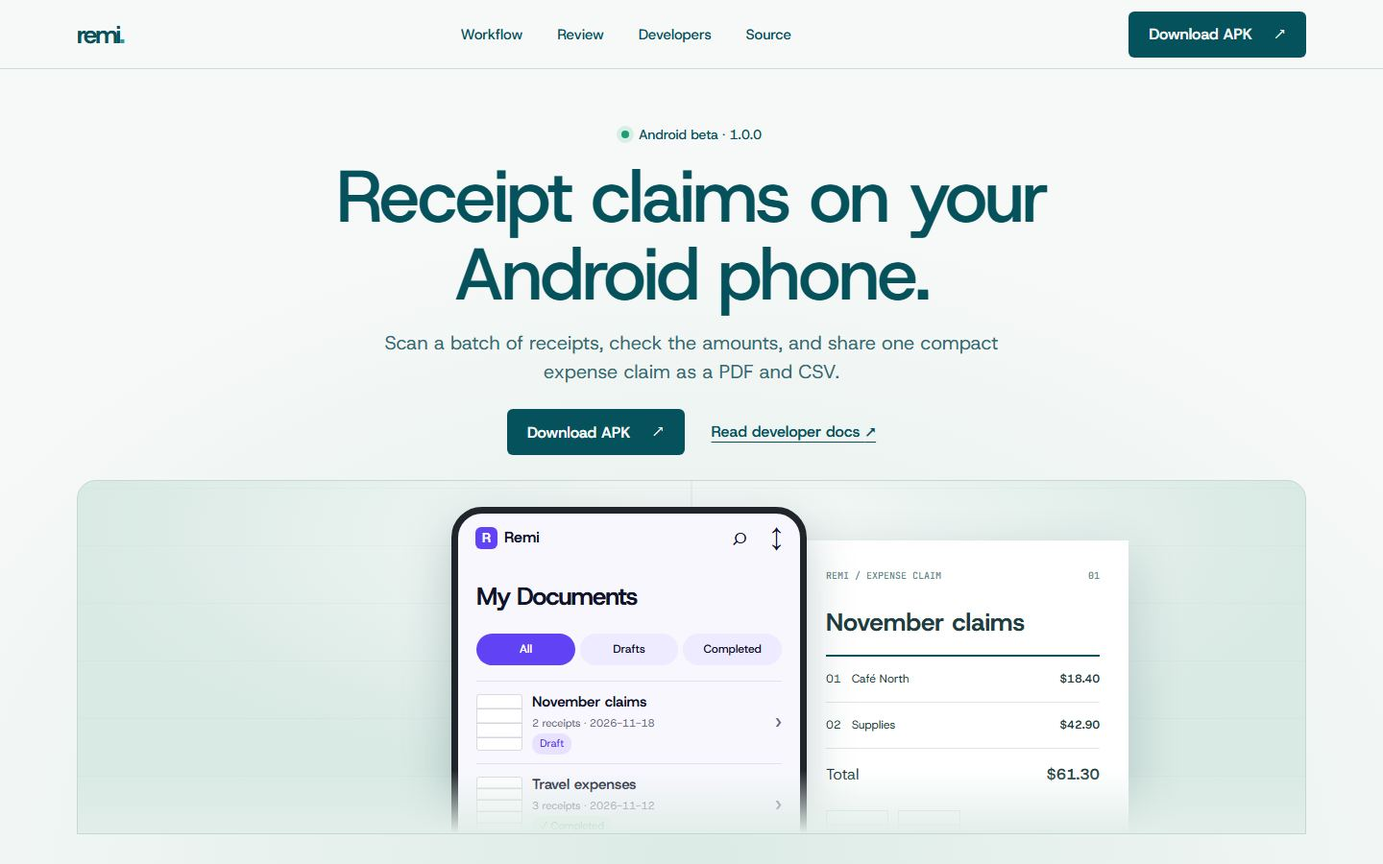
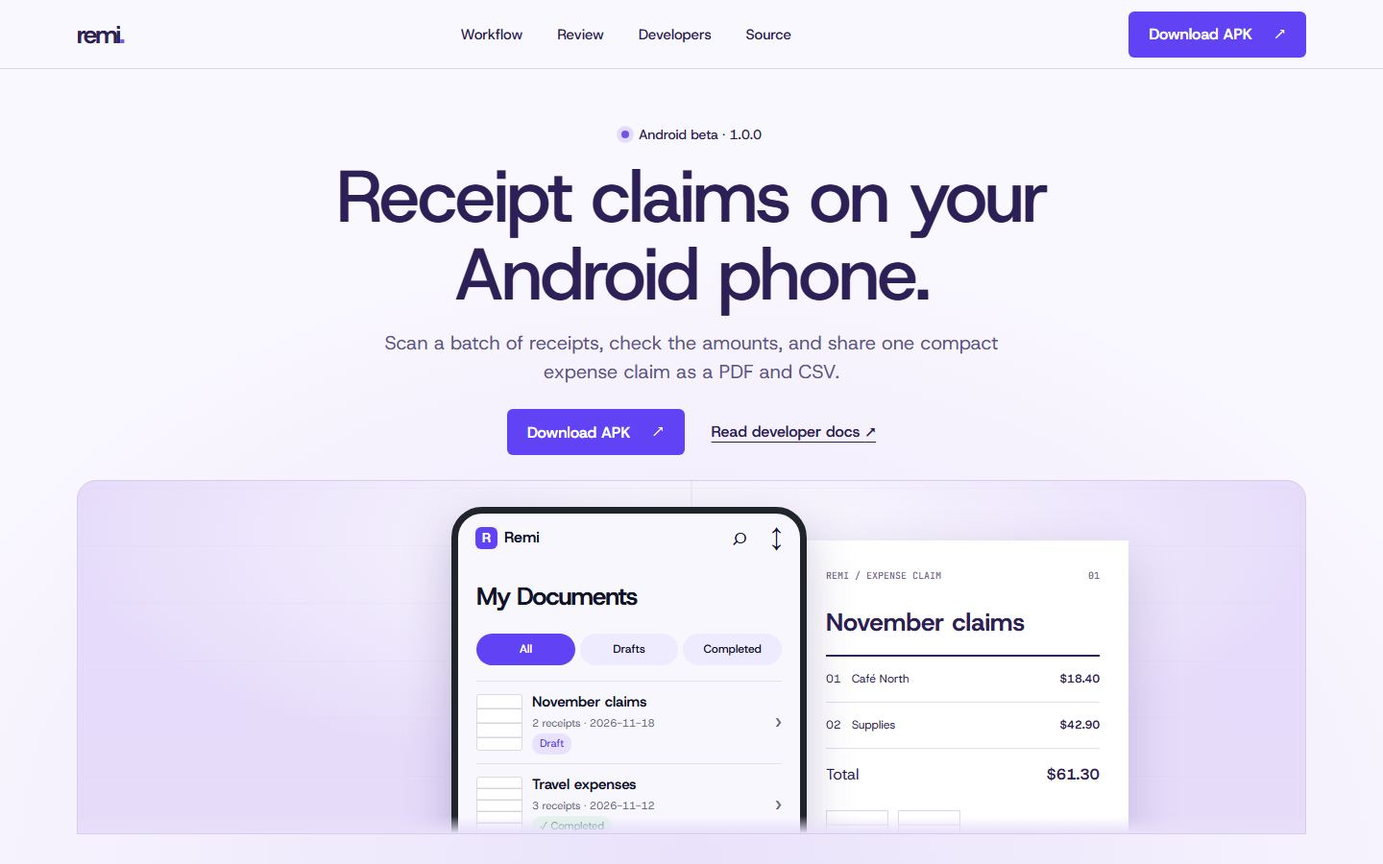
fix(web): restore purple theme and responsive sections

diff --git a/apps/web/styles.css b/apps/web/styles.css
@@ -1,25 +1,25 @@
 :root {
   color-scheme: light;
-  --p-bg: #f7f9f8;
-  --p-surface: #ebf0ee;
-  --p-ink: #06525c;
-  --p-muted: #2f737d;
-  --p-accent: #06525c;
-  --p-action: #06525c;
-  --p-action-ink: #f7f9f8;
-  --p-inv-bg: #06525c;
-  --p-inv-ink: #f7f9f8;
-  --p-inv-muted: #c1d0d2;
+  --p-bg: #faf8ff;
+  --p-surface: #f0ebfa;
+  --p-ink: #2d2056;
+  --p-muted: #62558a;
+  --p-accent: #6142f5;
+  --p-action: #6142f5;
+  --p-action-ink: #fff;
+  --p-inv-bg: #2d2056;
+  --p-inv-ink: #faf8ff;
+  --p-inv-muted: #d9d0f2;
   --bg: #fff;
-  --ink: #06525c;
-  --accent: #08707a;
+  --ink: #2d2056;
+  --accent: #6d4ddb;
   --t-h2: clamp(34px, 5vw, 70px);
   --display-weight: 500;
   --display-tracking: -.04em;
   --font-display: "Host Grotesk", system-ui, sans-serif;
   --font-text: "Host Grotesk", system-ui, sans-serif;
   --font-mono: "JetBrains Mono", ui-monospace, Consolas, monospace;
-  --line: #cddbd8;
+  --line: #dcd5ee;
   --violet: #6142f5;
 }
 * { box-sizing: border-box; }
@@ -27,7 +27,7 @@ html { scroll-behavior: auto; }
 body { margin: 0; background: var(--p-bg); color: var(--p-ink); font: 400 16px/1.6 var(--font-text); }
 a { color: inherit; text-decoration: none; }
 button, a { -webkit-tap-highlight-color: transparent; }
-a:focus-visible { outline: 3px solid #06525c; outline-offset: 4px; border-radius: 4px; }
+a:focus-visible { outline: 3px solid #2d2056; outline-offset: 4px; border-radius: 4px; }
 .wrap { width: min(calc(100% - 160px), 1280px); margin-inline: auto; }
 .skip-link { position: absolute; top: -100px; left: 0; padding: 10px 16px; background: var(--p-ink); color: #fff; z-index: 20; }
 .skip-link:focus { top: 10px; }
@@ -38,32 +38,32 @@ h3 { font-size: 25px; }
 .site-header { position: fixed; z-index: 10; inset: 0 0 auto; height: 72px; background: var(--p-bg); border-bottom: 1px solid var(--line); }
 .header-inner { height: 100%; display: flex; align-items: center; justify-content: space-between; gap: 32px; position: relative; }
 .brand { font: 700 26px/1 var(--font-display); letter-spacing: -.075em; white-space: nowrap; }
-.brand span { color: #2c9995; }
+.brand span { color: #7758ef; }
 .header-nav { display: flex; align-items: center; gap: clamp(18px, 2.5vw, 38px); font-size: 15px; font-weight: 500; }
 .header-nav a, .site-footer nav a { transition: color .18s; }
-.header-nav a:hover, .site-footer nav a:hover { color: #258c8a; }
+.header-nav a:hover, .site-footer nav a:hover { color: #6d4ddb; }
 .header-nav a[aria-current] { text-decoration: underline; text-underline-offset: 8px; text-decoration-thickness: 2px; }
 .header-cta, .button { display: inline-flex; align-items: center; justify-content: center; gap: 22px; min-height: 48px; padding: 11px 21px; border-radius: 6px; font-size: 16px; font-weight: 600; line-height: 1.2; white-space: nowrap; transition: transform .18s, background .18s; }
 .header-cta, .button-primary { background: var(--p-action); color: var(--p-action-ink); }
-.header-cta:hover, .button-primary:hover { background: #08707a; transform: translateY(-2px); }
+.header-cta:hover, .button-primary:hover { background: #6d4ddb; transform: translateY(-2px); }
 .header-cta:active, .button:active { transform: translateY(0); }
 .header-cta span, .button span { font-size: 18px; font-weight: 400; }
 main { padding-top: 0; }
-.hero { height: 100svh; overflow: hidden; background: radial-gradient(80% 95% at 50% 100%, #dcebe6, transparent 80%), var(--p-bg); }
+.hero { min-height: 100svh; padding-bottom: 24px; overflow: hidden; background: radial-gradient(80% 95% at 50% 100%, #e9e2fa, transparent 80%), var(--p-bg); }
 .hero-inner { padding-top: clamp(116px, 6vh + 72px, 140px); text-align: center; }
 .hero-text { width: 100%; margin-inline: auto; text-align: left; }
 .hero-copy { text-align: center; }
 .hero-status { display: inline-flex; align-items: center; gap: 10px; margin: 0 0 14px; font-size: 14px; font-weight: 500; }
-.status-light { width: 8px; height: 8px; border-radius: 50%; background: #1d9d76; box-shadow: 0 0 0 5px #d7eee3; }
+.status-light { width: 8px; height: 8px; border-radius: 50%; background: #7454e8; box-shadow: 0 0 0 5px #e4dcff; }
 .hero h1 { max-width: 850px; margin: 0 auto 16px; font-size: clamp(49px, 5.3vw, 78px); }
-.hero-lead { max-width: 670px; margin: 0 auto; font-size: 20px; line-height: 1.48; color: #346c73; }
+.hero-lead { max-width: 670px; margin: 0 auto; font-size: 20px; line-height: 1.48; color: #62558a; }
 .hero-actions { display: flex; justify-content: center; align-items: center; gap: 28px; margin-top: 24px; }
 .text-action, .inline-link, .release-link { font-weight: 600; text-decoration: underline; text-underline-offset: 5px; }
-.text-action:hover, .inline-link:hover, .release-link:hover { color: #1e8d8f; }
-.hero-stage { height: clamp(300px, 41vh, 390px); position: relative; isolation: isolate; margin-top: 26px; overflow: hidden; border: 1px solid #c4d7d2; border-radius: 20px 20px 0 0; background: radial-gradient(60% 80% at 50% 15%, #f7faf9, #d9e9e4 85%); }
-.hero-stage::after { content: ""; position: absolute; z-index: 5; inset: 82% 0 0; background: linear-gradient(transparent, #e2eee9); pointer-events: none; }
-.stage-lines { position: absolute; inset: 0; opacity: .28; background: linear-gradient(90deg, transparent 49.9%, #a9c8c1 50%, transparent 50.1%), repeating-linear-gradient(0deg, transparent 0 59px, #bad2cc 60px); }
-.phone-screen { position: absolute; z-index: 2; width: 370px; height: 570px; left: calc(50% - 250px); top: 27px; background: #f8f7fe; color: #111329; border: 7px solid #20252b; border-radius: 32px; overflow: hidden; text-align: left; box-shadow: 0 18px 50px #17414840; }
+.text-action:hover, .inline-link:hover, .release-link:hover { color: #6d4ddb; }
+.hero-stage { height: clamp(300px, 41vh, 390px); position: relative; isolation: isolate; margin-top: 26px; overflow: hidden; border: 1px solid #d6ccec; border-radius: 20px 20px 0 0; background: radial-gradient(60% 80% at 50% 15%, #fcfbff, #e6dcfa 85%); }
+.hero-stage::after { content: ""; position: absolute; z-index: 5; inset: 95% 0 0; background: linear-gradient(transparent, #e8e0fa); pointer-events: none; }
+.stage-lines { position: absolute; inset: 0; opacity: .28; background: linear-gradient(90deg, transparent 49.9%, #c9baf0 50%, transparent 50.1%), repeating-linear-gradient(0deg, transparent 0 59px, #d7ccf0 60px); }
+.phone-screen { position: absolute; z-index: 2; width: 370px; height: 570px; left: calc(50% - 250px); top: 27px; background: #f8f7fe; color: #111329; border: 7px solid #20252b; border-radius: 32px; overflow: hidden; text-align: left; box-shadow: 0 18px 50px #39236c40; }
 .phone-top { height: 50px; display: flex; align-items: center; gap: 7px; padding: 0 18px; font-size: 16px; }
 .app-icon { width: 23px; height: 23px; display: inline-grid; place-items: center; border-radius: 6px; background: var(--violet); color: #fff; font: 800 14px/1 var(--font-text); }
 .phone-tools { margin-left: auto; font-size: 26px; }
@@ -86,18 +86,18 @@ main { padding-top: 0; }
 .phone-nav span { display: grid; justify-items: center; line-height: 1; }
 .phone-nav small { font-size: 9px; margin-top: 4px; }
 .phone-nav span:first-child { color: #4928df; }
-.output-sheet { position: absolute; z-index: 1; top: 62px; left: calc(50% + 110px); width: 345px; height: 460px; padding: 30px; background: #fff; color: #203d41; text-align: left; box-shadow: 0 20px 50px #17414830; }
-.output-head { display: flex; justify-content: space-between; color: #5a8b8c; font: 500 10px var(--font-mono); }
+.output-sheet { position: absolute; z-index: 1; top: 62px; left: calc(50% + 110px); width: 345px; height: 460px; padding: 30px; background: #fff; color: #2d2056; text-align: left; box-shadow: 0 20px 50px #39236c30; }
+.output-head { display: flex; justify-content: space-between; color: #756791; font: 500 10px var(--font-mono); }
 .output-title { margin: 22px 0 12px; font-size: 26px; font-weight: 700; }
 .output-rule { height: 2px; background: var(--p-ink); }
-.output-row, .output-total { display: flex; justify-content: space-between; padding: 14px 0; border-bottom: 1px solid #dce8e5; font-size: 12px; }
+.output-row, .output-total { display: flex; justify-content: space-between; padding: 14px 0; border-bottom: 1px solid #e2dbf2; font-size: 12px; }
 .output-total { font-size: 16px; border-bottom: none; }
 .output-slips { display: flex; gap: 10px; margin-top: 10px; }
-.output-slips span { width: 65px; height: 95px; border: 1px solid #d5dfdd; background: repeating-linear-gradient(#fff 0 13px, #e2e9e7 14px 15px); }
+.output-slips span { width: 65px; height: 95px; border: 1px solid #ded6ed; background: repeating-linear-gradient(#fff 0 13px, #e8e2f1 14px 15px); }
 .m-enter:not(.m-enter-done) .hero-status, .m-enter:not(.m-enter-done) .hero h1, .m-enter:not(.m-enter-done) .hero-lead, .m-enter:not(.m-enter-done) .hero-actions { opacity: 0; transform: translateY(12px); }
 .hero-status, .hero h1, .hero-lead, .hero-actions { transition: opacity .55s ease, transform .55s ease; }
 .hero h1 { transition-delay: .07s; }.hero-lead { transition-delay: .13s; }.hero-actions { transition-delay: .2s; }
-.section { height: 100svh; padding: 90px 0 55px; scroll-margin-top: 72px; }
+.section { min-height: 100svh; padding: 90px 0 55px; scroll-margin-top: 72px; }
 .kicker { margin: 0 0 20px; font-size: 14px; font-weight: 600; }
 .section-heading { max-width: 760px; }
 .section-heading h2 { margin: 0 0 18px; }
@@ -106,27 +106,27 @@ main { padding-top: 0; }
 .workflow-grid { display: grid; grid-template-columns: repeat(3, minmax(0, 1fr)); gap: 24px; margin-top: 58px; }
 .workflow-step { min-width: 0; padding-top: 18px; border-top: 1px solid var(--line); }
 .step-index { font: 500 13px var(--font-mono); }
-.step-visual { position: relative; display: flex; align-items: center; justify-content: center; height: 225px; overflow: hidden; margin: 18px 0 25px; border-radius: 14px; background: #eaf2ef; }
+.step-visual { position: relative; display: flex; align-items: center; justify-content: center; height: 225px; overflow: hidden; margin: 18px 0 25px; border-radius: 14px; background: #eee8fb; }
 .workflow-step h3 { margin-bottom: 10px; }
 .workflow-step p { max-width: 320px; }
-.scan-visual { background: #dcebe6; }
-.scan-page { position: relative; width: 112px; height: 191px; padding: 20px 15px; background: #fff; box-shadow: 0 12px 26px #2c64663d; display: flex; flex-direction: column; gap: 13px; font: 500 11px var(--font-mono); }
-.scan-page i, .receipt-paper i { display: block; height: 3px; background: #d4dcda; }
+.scan-visual { background: #e9e2fa; }
+.scan-page { position: relative; width: 112px; height: 191px; padding: 20px 15px; background: #fff; box-shadow: 0 12px 26px #4430733d; display: flex; flex-direction: column; gap: 13px; font: 500 11px var(--font-mono); }
+.scan-page i, .receipt-paper i { display: block; height: 3px; background: #ddd8e8; }
 .scan-page strong { margin-top: auto; font-size: 16px; }
 .scan-corners { position: absolute; inset: 17px calc(50% - 83px); }
-.scan-corners i { position: absolute; width: 18px; height: 18px; border: 3px solid #238f88; }
+.scan-corners i { position: absolute; width: 18px; height: 18px; border: 3px solid #7454e8; }
 .scan-corners i:nth-child(1) { top: 0; left: 0; border-right: 0; border-bottom: 0; }.scan-corners i:nth-child(2) { top: 0; right: 0; border-left: 0; border-bottom: 0; }.scan-corners i:nth-child(3) { bottom: 0; left: 0; border-right: 0; border-top: 0; }.scan-corners i:nth-child(4) { bottom: 0; right: 0; border-left: 0; border-top: 0; }
 .review-visual { flex-direction: column; padding: 25px; align-items: stretch; background: #f5f3fc; }
 .mini-field { display: flex; justify-content: space-between; padding: 14px 10px; border-bottom: 1px solid #e3e1ee; color: #666782; font-size: 13px; }
 .mini-field strong { color: #111329; }
 .mini-confirm { align-self: flex-end; margin-top: 16px; padding: 9px 12px; border-radius: 7px; background: var(--violet); color: #fff; font-size: 12px; font-weight: 600; }
 .export-visual { gap: 16px; }
-.mini-pdf, .mini-csv { width: 90px; height: 120px; padding: 15px 10px; border-radius: 6px; background: #fff; box-shadow: 0 8px 20px #19505c20; font: 700 22px var(--font-display); }
+.mini-pdf, .mini-csv { width: 90px; height: 120px; padding: 15px 10px; border-radius: 6px; background: #fff; box-shadow: 0 8px 20px #44307320; font: 700 22px var(--font-display); }
 .mini-pdf span, .mini-csv span { display: block; margin-top: 25px; font: 400 9px var(--font-mono); }
-.mini-csv { width: auto; height: auto; align-self: center; padding: 0; background: transparent; box-shadow: none; color: #06525c; font-size: 20px; }
+.mini-csv { width: auto; height: auto; align-self: center; padding: 0; background: transparent; box-shadow: none; color: #2d2056; font-size: 20px; }
 .mini-csv span { margin-top: 8px; }
 .export-arrow { position: absolute; right: 25px; bottom: 15px; font-size: 24px; }
-.review-section { background: #07525c; color: #fff; }
+.review-section { background: var(--p-inv-bg); color: #fff; }
 .review-layout, .export-layout { min-height: calc(100svh - 145px); display: grid; grid-template-columns: repeat(12, minmax(0, 1fr)); align-items: start; gap: 24px; padding-top: 115px; }
 .review-copy, .export-copy { grid-column: 1 / span 6; }
 .review-window, .export-art { grid-column: 7 / span 6; }
@@ -135,7 +135,7 @@ main { padding-top: 0; }
 .review-copy > p:nth-of-type(2), .export-copy > p:nth-of-type(2) { font-size: 19px; line-height: 1.55; }
 .review-copy > p:nth-of-type(2) { color: #fff; }
 .inline-link { display: inline-block; margin-top: 20px; }
-.review-window { overflow: hidden; border-radius: 18px; background: #f8f7fe; color: #111329; box-shadow: 0 24px 60px #00303955; }
+.review-window { overflow: hidden; border-radius: 18px; background: #f8f7fe; color: #111329; box-shadow: 0 24px 60px #1e0f4655; }
 .review-window-head { display: flex; align-items: center; gap: 10px; height: 64px; padding: 0 24px; background: #fff; border-bottom: 1px solid #e3e1ee; font-size: 17px; }
 .review-window-head > span:last-child { margin-left: auto; color: #666782; font-size: 13px; }
 .review-window-body { display: grid; grid-template-columns: .8fr 1.2fr; min-height: 470px; }
@@ -153,50 +153,50 @@ main { padding-top: 0; }
 .export-copy { min-width: 0; }
 .export-copy > p:nth-of-type(2) { color: var(--p-ink); }
 .export-art { position: relative; min-height: 490px; }
-.pdf-page { position: absolute; width: 290px; height: 410px; padding: 28px; background: #fff; box-shadow: 0 22px 42px #0b474331; }
+.pdf-page { position: absolute; width: 290px; height: 410px; padding: 28px; background: #fff; box-shadow: 0 22px 42px #38226631; }
 .pdf-cover { left: 9%; top: 0; z-index: 2; }
-.pdf-page > span { font: 500 10px var(--font-mono); color: #4e7f80; }
+.pdf-page > span { font: 500 10px var(--font-mono); color: #756791; }
 .pdf-title { margin: 23px 0 15px; font-size: 26px; font-weight: 700; letter-spacing: -.04em; }
-.pdf-line, .pdf-total { display: flex; justify-content: space-between; padding: 11px 0; border-bottom: 1px solid #d5e1df; font-size: 12px; }
+.pdf-line, .pdf-total { display: flex; justify-content: space-between; padding: 11px 0; border-bottom: 1px solid #e0d9ed; font-size: 12px; }
 .pdf-total { font-size: 15px; border: 0; }
 .pdf-receipts { top: 35px; left: 39%; display: flex; gap: 15px; align-items: start; padding-top: 70px; }
-.pdf-receipt { width: 90px; height: 230px; border: 1px solid #dae3e0; background: repeating-linear-gradient(#fff 0 13px, #e3e9e7 14px 15px); }
+.pdf-receipt { width: 90px; height: 230px; border: 1px solid #e0d9ed; background: repeating-linear-gradient(#fff 0 13px, #e7e1f0 14px 15px); }
 .pdf-receipt.short { height: 180px; }
-.csv-card { position: absolute; z-index: 3; right: 0; bottom: 22px; width: 260px; padding: 19px; background: #07525c; color: #fff; box-shadow: 0 16px 30px #0b474331; font: 500 13px var(--font-mono); }
-.csv-card span { display: block; margin-bottom: 13px; color: #addbd3; }
+.csv-card { position: absolute; z-index: 3; right: 0; bottom: 22px; width: 260px; padding: 19px; background: #322064; color: #fff; box-shadow: 0 16px 30px #38226631; font: 500 13px var(--font-mono); }
+.csv-card span { display: block; margin-bottom: 13px; color: #ded3ff; }
 .csv-card code { font: 400 11px/1.8 var(--font-mono); }
 .statement-section { display: flex; align-items: flex-start; padding-top: 150px; background: #fff; }
 .statement-section h2 { margin-bottom: 35px; font-size: 17px; letter-spacing: 0; }
 .mo-wh__text { max-width: 960px; font: 500 clamp(34px, 5vw, 70px)/1.18 var(--font-display); letter-spacing: -.04em; }
 .mo-wh__text strong { font-weight: 600; }
-.download-section { height: 100svh; padding: 40px 0 50px; background: var(--p-inv-bg); color: var(--p-inv-ink); }
-.download-section > .wrap { height: 100%; display: flex; flex-direction: column; }
+.download-section { min-height: 100svh; padding: 40px 0 50px; background: var(--p-inv-bg); color: var(--p-inv-ink); }
+.download-section > .wrap { min-height: calc(100svh - 90px); display: flex; flex-direction: column; }
 .download-layout { flex: 1; min-height: 0; display: grid; grid-template-columns: repeat(12, minmax(0, 1fr)); align-items: start; gap: 24px; padding-top: 125px; }
 .download-main { grid-column: 1 / span 6; }
 .download-facts { grid-column: 7 / span 6; }
 .download-main { min-width: 0; }
 .download-main h2 { margin-bottom: 23px; }
 .download-main > p:nth-of-type(2) { max-width: 500px; color: #fff; font-size: 19px; }
-.button-inverse { margin-top: 18px; background: #f7f9f8; color: #06525c; }
-.button-inverse:hover { background: #e3f1eb; transform: translateY(-2px); }
-.release-link { display: block; width: max-content; margin-top: 25px; color: #e1f4ef; }
-.download-facts { margin: 0; border-top: 1px solid #66969a; }
-.download-facts > div { padding: 15px 0; border-bottom: 1px solid #66969a; }
-.download-facts dt { margin-bottom: 4px; color: #afd3d1; font-size: 13px; font-weight: 500; }
+.button-inverse { margin-top: 18px; background: var(--p-action); color: var(--p-action-ink); }
+.button-inverse:hover { background: #6d4ddb; transform: translateY(-2px); }
+.release-link { display: block; width: max-content; margin-top: 25px; color: #eee8ff; }
+.download-facts { margin: 0; border-top: 1px solid #8b78bd; }
+.download-facts > div { padding: 15px 0; border-bottom: 1px solid #8b78bd; }
+.download-facts dt { margin-bottom: 4px; color: #d6c9f5; font-size: 13px; font-weight: 500; }
 .download-facts dd { margin: 0; font-size: 15px; font-weight: 500; line-height: 1.5; }
 .download-facts .checksum { overflow-wrap: anywhere; font: 400 12px/1.6 var(--font-mono); }
 .site-footer:not(.download-section) { background: #fff; }
 .footer-inner { min-height: 90px; display: flex; align-items: center; gap: 40px; }
-.download-section .footer-inner { border-top: 1px solid #66969a; }
-.download-section .brand span { color: #f7f9f8; }
+.download-section .footer-inner { border-top: 1px solid #8b78bd; }
+.download-section .brand span { color: #faf8ff; }
 .download-section a:focus-visible, .review-section a:focus-visible { outline-color: #fff; }
 .footer-inner p { margin: 0; }
-.site-footer:not(.download-section) .footer-inner p { color: #356f75; }
+.site-footer:not(.download-section) .footer-inner p { color: #5b5079; }
 .site-footer nav { display: flex; gap: 25px; margin-left: auto; font-size: 14px; font-weight: 500; }
 .docs-main { padding-top: 72px; }
 .docs-hero { padding: 110px 0 95px; border-bottom: 1px solid var(--line); }
 .docs-hero h1 { max-width: 800px; margin-bottom: 25px; font-size: clamp(52px, 6vw, 86px); }
-.docs-hero > .wrap > p:last-of-type { max-width: 660px; color: #356f75; font-size: 20px; }
+.docs-hero > .wrap > p:last-of-type { max-width: 660px; color: #5b5079; font-size: 20px; }
 .docs-actions { display: flex; gap: 24px; align-items: center; margin-top: 30px; }
 .docs-layout { display: grid; grid-template-columns: 210px minmax(0, 1fr); gap: 8%; padding-top: 68px; padding-bottom: 120px; }
 .docs-nav { position: sticky; top: 110px; align-self: start; display: grid; gap: 16px; font-size: 15px; }
@@ -206,10 +206,10 @@ main { padding-top: 0; }
 .docs-content section { padding: 0 0 75px; margin-bottom: 75px; border-bottom: 1px solid var(--line); scroll-margin-top: 110px; }
 .docs-content section:last-child { margin-bottom: 0; border-bottom: none; }
 .docs-content h2 { margin-bottom: 24px; font-size: clamp(36px, 3.5vw, 50px); }
-.docs-content p, .docs-content li { color: #315f66; font-size: 17px; }
+.docs-content p, .docs-content li { color: #5b5079; font-size: 17px; }
 .docs-content a { text-decoration: underline; text-underline-offset: 4px; }
 .docs-content code { font: .86em var(--font-mono); }
-.docs-content pre { overflow-x: auto; margin: 30px 0; padding: 28px; border-radius: 10px; background: #093d45; color: #ecf7f4; line-height: 1.85; }
+.docs-content pre { overflow-x: auto; margin: 30px 0; padding: 28px; border-radius: 10px; background: #291c56; color: #f5f0ff; line-height: 1.85; }
 .docs-content pre code { font-size: 13px; white-space: pre-wrap; overflow-wrap: anywhere; }
 .architecture-list { display: grid; gap: 0; margin: 30px 0; border-top: 1px solid var(--line); }
 .architecture-list > div { display: grid; grid-template-columns: 150px 1fr; gap: 24px; padding: 19px 0; border-bottom: 1px solid var(--line); }
@@ -217,12 +217,11 @@ main { padding-top: 0; }
 .docs-content ul { padding-left: 22px; }
 .docs-content li { margin-bottom: 12px; }
 @media (min-width: 1001px) and (max-width: 1100px) {
-  .hero { height: 100svh; padding-bottom: 22px; }
+  .hero { padding-bottom: 22px; }
   .hero-stage { height: 300px; }
   .output-sheet { top: 20px; }
   .phone-screen { top: 10px; }
   .phone-doc + .phone-doc { display: none; }
-  .workflow-section { height: auto; min-height: 100svh; }
 }
 @media (max-width: 1000px) {
   .wrap { width: min(calc(100% - 80px), 1280px); }
@@ -235,7 +234,7 @@ main { padding-top: 0; }
   .pdf-receipts { left: 33%; }
   .pdf-receipt { width: 70px; }
 }
-@media (min-width: 761px) and (max-width: 850px) {
+@media (min-width: 521px) and (max-width: 850px) {
   .workflow-grid { grid-template-columns: 1fr; gap: 20px; margin-top: 40px; }
   .workflow-step { display: grid; grid-template-columns: 1fr 180px; grid-template-rows: auto auto 1fr; gap: 0 24px; min-height: 185px; }
   .workflow-step .step-index { grid-column: 1; grid-row: 1; }
@@ -245,6 +244,8 @@ main { padding-top: 0; }
   .workflow-step .review-visual { padding: 10px; }
   .workflow-step .mini-field { padding: 8px 4px; font-size: 11px; }
   .workflow-step .mini-confirm { margin-top: 8px; padding: 7px 8px; font-size: 11px; }
+}
+@media (min-width: 761px) and (max-width: 850px) {
   .review-window-body { grid-template-columns: 1fr; grid-template-rows: auto 230px; min-height: 0; }
   .review-image { grid-row: 2; }
   .review-fields { padding: 24px; }
@@ -255,11 +256,12 @@ main { padding-top: 0; }
   .wrap { width: min(calc(100% - 48px), 1280px); }
   .site-header { height: 64px; }
   main { padding-top: 0; }
+  .phone-screen { left: calc(50% - 185px); }
+  .phone-doc + .phone-doc, .phone-nav, .output-sheet { display: none; }
   .header-nav a:not([href$="developers.html"]) { display: none; }
   .header-inner { gap: 20px; }
   .header-nav { margin-left: auto; }
   .header-cta { min-height: 44px; padding: 9px 14px; }
-  .hero { min-height: 100svh; }
   .hero h1 { max-width: 650px; }
   .section { padding: 70px 0 45px; }
   .review-layout, .export-layout, .download-layout { min-height: auto; grid-template-columns: 1fr; gap: 40px; padding-top: 0; }
@@ -267,7 +269,8 @@ main { padding-top: 0; }
   .review-copy, .export-copy { max-width: 620px; }
   .review-window { max-width: 720px; }
   .export-art { max-width: 650px; width: 100%; }
-  .download-section { height: 200svh; padding-top: 70px; }
+  .download-section { min-height: 200svh; padding-top: 70px; }
+  .download-section > .wrap { min-height: calc(200svh - 120px); }
   .statement-section { align-items: center; padding-top: 70px; }
   .download-layout { flex: 0 0 auto; }
   .download-section .footer-inner { margin-top: auto; margin-bottom: auto; }
@@ -303,15 +306,12 @@ main { padding-top: 0; }
   .phone-doc strong { font-size: 12px; }.phone-doc small { font-size: 9px; }
   .phone-doc em { font-size: 9px; }
   .phone-add { font-size: 10px; margin-top: 16px; }
-  .phone-nav { height: 52px; font-size: 18px; }
-  .phone-nav small { font-size: 7px; }
-  .output-sheet { display: none; }
   .section { padding: 60px 0 40px; }
-  .workflow-section { height: 200svh; }
+  .workflow-section { min-height: 200svh; }
   .workflow-grid { grid-template-columns: 1fr; gap: 20px; }
   .section-heading h2, .review-copy h2, .export-copy h2, .download-main h2 { font-size: clamp(38px, 10vw, 48px); }
   .section-heading > p:last-child, .review-copy > p:nth-of-type(2), .export-copy > p:nth-of-type(2), .download-main > p:nth-of-type(2) { font-size: 16px; }
-  .workflow-grid { margin-top: 40px; gap: 50px; }
+  .workflow-grid { margin-top: 40px; gap: 44px; }
   .workflow-step { display: block; }
   .workflow-step .step-visual { margin: 18px 0 24px; height: 205px; }
   .review-window-body { grid-template-columns: 1fr; }
@@ -330,8 +330,6 @@ main { padding-top: 0; }
   .statement-section h2 { margin-bottom: 28px; }
   .mo-wh__text { font-size: clamp(32px, 8vw, 42px); }
   .footer-inner { gap: 15px; }
-  .phone-doc + .phone-doc { display: none; }
-  .phone-nav { display: none; }
   .pdf-receipts { left: 28%; width: 175px; }
   .pdf-receipt { width: 58px; }
   .brand, .header-nav a, .text-action, .inline-link, .release-link, .site-footer nav a { display: inline-flex; align-items: center; min-height: 44px; }
@@ -356,8 +354,4 @@ main { padding-top: 0; }
   html { scroll-behavior: auto; }
   .m-enter:not(.m-enter-done) .hero-status, .m-enter:not(.m-enter-done) .hero h1, .m-enter:not(.m-enter-done) .hero-lead, .m-enter:not(.m-enter-done) .hero-actions { opacity: 1; transform: none; }
   *, *::before, *::after { transition-duration: .01ms !important; animation-duration: .01ms !important; }
-}
-@media (max-width: 360px) {
-  .workflow-section, .review-section, .export-section { height: auto; min-height: 100svh; }
-  .workflow-section { min-height: 200svh; }
 }

diff --git a/apps/web/index.html b/apps/web/index.html
@@ -3,7 +3,7 @@
 <head>
   <meta charset="utf-8">
   <meta name="viewport" content="width=device-width, initial-scale=1, viewport-fit=cover">
-  <meta name="theme-color" content="#f7f9f8">
+  <meta name="theme-color" content="#faf8ff">
   <meta name="site-kind" content="software">
   <meta name="page-type" content="software">
   <meta name="description" content="Remi scans receipts on Android, lets you confirm each amount, then exports one expense claim as PDF and CSV.">
@@ -17,7 +17,7 @@
   <link rel="preconnect" href="https://fonts.googleapis.com">
   <link rel="preconnect" href="https://fonts.gstatic.com" crossorigin>
   <link href="https://fonts.googleapis.com/css2?family=Host+Grotesk:wght@400..700&family=JetBrains+Mono:wght@400..500&display=swap" rel="stylesheet">
-  <link rel="stylesheet" href="./styles.css?v=4">
+  <link rel="stylesheet" href="./styles.css?v=5">
   <link rel="stylesheet" href="./assets/motion/motion.css">
   <script>document.documentElement.classList.add('m-enter');setTimeout(()=>document.documentElement.classList.add('m-enter-done'),700)</script>
   <script>document.documentElement.classList.add('mo-js');setTimeout(()=>document.documentElement.classList.add('mo-safe'),2500)</script>
@@ -26,7 +26,7 @@
   <link rel="modulepreload" href="./assets/moments/word-highlight/moment.js">
 </head>
 <body>
-  <!-- software; centred hero, teal-on-paper, Host Grotesk, nav-centre, footer-statement, close-word, space, arrow, wordmark; word-highlight at privacy -->
+  <!-- software; centred hero, purple-on-paper, Host Grotesk, nav-centre, footer-statement, close-word, space, arrow, wordmark; word-highlight at privacy -->
   <header class="site-header nav"><div class="wrap header-inner">
     <a class="skip-link" href="#top">Skip to content</a>
     <a class="brand" href="#top" aria-label="Remi home">remi<span>.</span></a>
@@ -67,7 +67,7 @@
       <div class="review-window" role="img" aria-label="Remi receipt review interface with a suggested amount awaiting confirmation"><div class="review-window-head"><span class="app-icon">R</span><strong>Receipt review</strong><span>2 of 2</span></div><div class="review-window-body"><div class="review-image" aria-hidden="true"><div class="receipt-paper"><b>CAFÉ NORTH</b><i></i><i></i><i></i><i></i><strong>TOTAL &nbsp; $18.40</strong></div></div><div class="review-fields"><div class="review-state"><span></span> Needs confirmation</div><div class="field-row"><span>Merchant</span><strong>Café North</strong></div><div class="field-row"><span>Date</span><strong>18 Nov 2026</strong></div><div class="field-row focus"><span>Suggested total</span><strong>$18.40</strong></div><div class="confirm-control">✓ &nbsp; Confirm receipt</div></div></div></div>
     </div></section>
     <section class="section export-section" id="export" aria-labelledby="export-title"><div class="wrap export-layout">
-      <div class="export-copy"><p class="kicker">Ready to send</p><h2 id="export-title">A PDF your team can check.</h2><p>The cover sheet lists every included receipt and the verified total. Receipt images follow in a compact A4 layout, with a CSV beside the PDF.</p><a class="inline-link" href="./developers.html#architecture">Read about the export core <span aria-hidden="true">↗</span></a></div>
+      <div class="export-copy"><p class="kicker">Ready to send</p><h2 id="export-title">A PDF your team can check.</h2><p>The cover sheet lists each receipt and the verified total. Images follow on A4 pages. Remi exports a matching CSV.</p><a class="inline-link" href="./developers.html#architecture">Read about the export core <span aria-hidden="true">↗</span></a></div>
       <div class="export-art" role="img" aria-label="PDF cover sheet, receipt page, and CSV rows from the same claim"><div class="pdf-page pdf-cover"><span>REMI / CLAIM</span><div class="pdf-title">November claims</div><div class="pdf-line"><span>Café North</span><strong>$18.40</strong></div><div class="pdf-line"><span>Supplies</span><strong>$42.90</strong></div><div class="pdf-total"><span>Total</span><strong>$61.30</strong></div></div><div class="pdf-page pdf-receipts"><div class="pdf-receipt"></div><div class="pdf-receipt short"></div></div><div class="csv-card"><span>claim.csv</span><code>merchant,total<br>Café North,18.40<br>Supplies,42.90</code></div></div>
     </div></section>
     <section class="section statement-section" id="privacy" data-moment="word-highlight" aria-labelledby="privacy-title"><div class="wrap"><h2 id="privacy-title">Receipt files stay on your phone.</h2><p class="mo-wh__text">Drafts, receipt images, and PDF versions remain <strong>on your device</strong>. Remi does not require an account or cross-device sync.</p></div></section>

diff --git a/apps/web/developers.html b/apps/web/developers.html
@@ -3,7 +3,7 @@
 <head>
   <meta charset="utf-8">
   <meta name="viewport" content="width=device-width, initial-scale=1, viewport-fit=cover">
-  <meta name="theme-color" content="#f7f9f8">
+  <meta name="theme-color" content="#faf8ff">
   <meta name="site-kind" content="software">
   <meta name="page-type" content="software">
   <meta name="description" content="Build Remi from source. Read the quickstart, architecture, Android build commands, and receipt processing rules.">
@@ -17,7 +17,7 @@
   <link rel="preconnect" href="https://fonts.googleapis.com">
   <link rel="preconnect" href="https://fonts.gstatic.com" crossorigin>
   <link href="https://fonts.googleapis.com/css2?family=Host+Grotesk:wght@400..700&family=JetBrains+Mono:wght@400..500&display=swap" rel="stylesheet">
-  <link rel="stylesheet" href="./styles.css?v=4">
+  <link rel="stylesheet" href="./styles.css?v=5">
 </head>
 <body>
   <header class="site-header nav"><div class="wrap header-inner">
